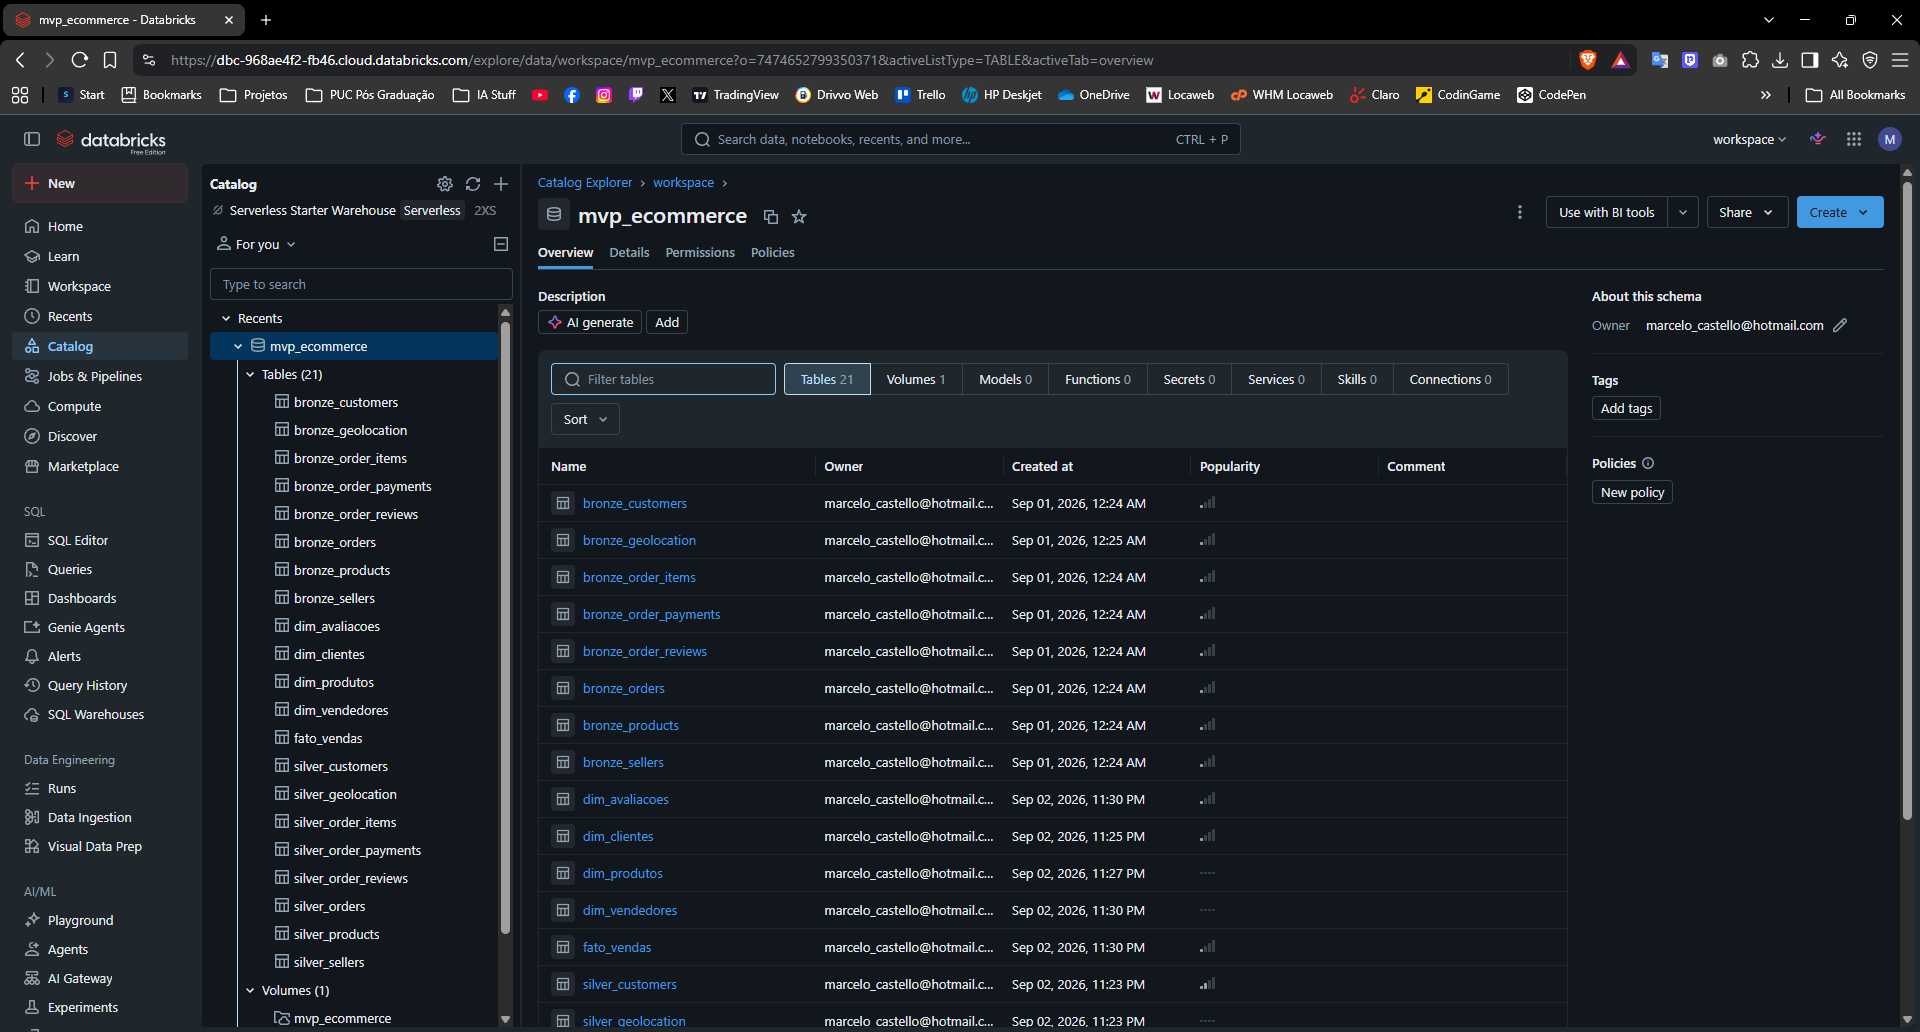
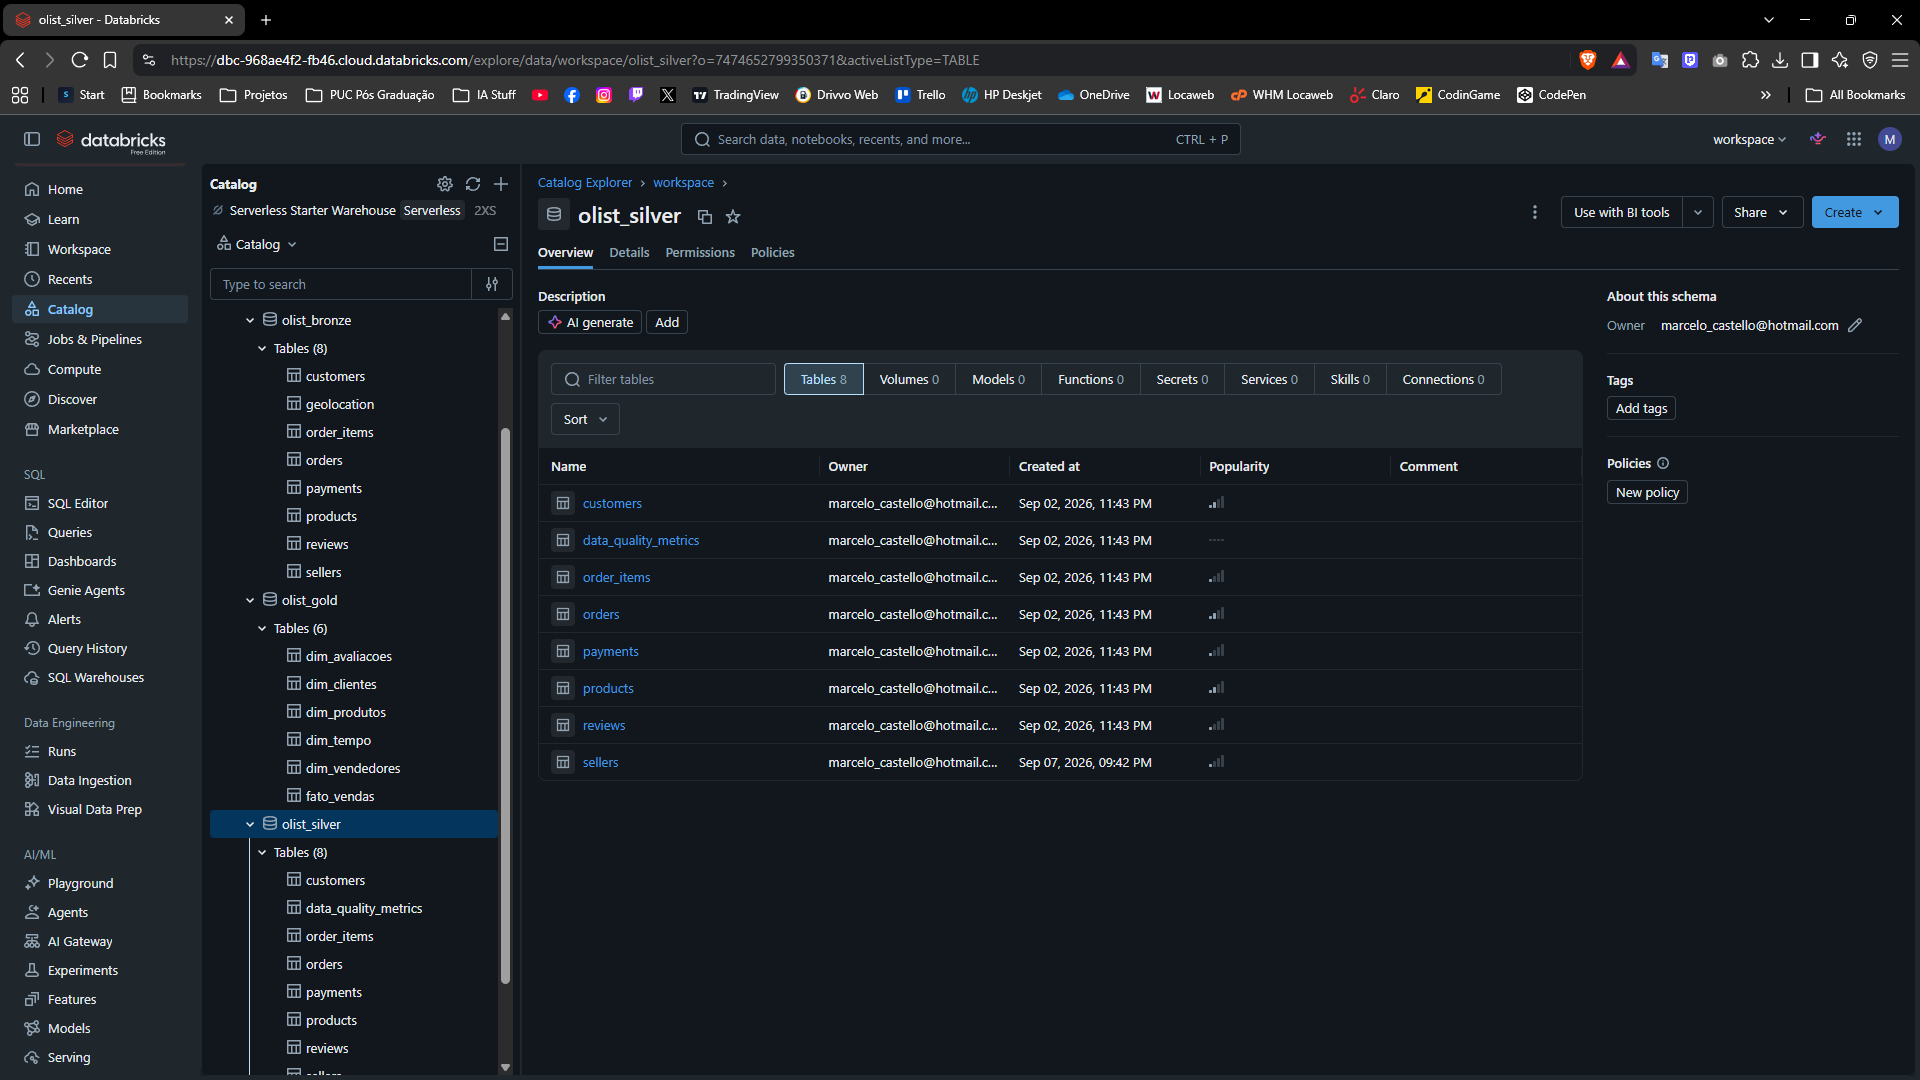
Update README.md with data loading details and add images for Catalog Explorer

diff --git a/README.md b/README.md
@@ -44,13 +44,17 @@ Com o pipeline estruturado, buscaremos responder às seguintes perguntas analít
 
 ## 4. Carga dos Dados (Etapa 4.2)
 
-_[a preencher após execução no Databricks: como os 9 CSVs foram enviados ao Volume `mvp_ecommerce`, screenshot da estrutura do Volume, referência aos notebooks `notebooks/00_bronze_ingestion.ipynb` a `03_business_analysis.ipynb`]_
+Os 8 CSVs (todos exceto `product_category_name_translation.csv`, que não é utilizado pelas 2 perguntas deste MVP) foram enviados manualmente ao Volume `workspace.mvp_ecommerce.mvp_ecommerce` no Databricks Free Edition, via upload direto pela interface de Catalog Explorer. A partir daí, o notebook [`notebooks/00_bronze_ingestion.ipynb`](./notebooks/00_bronze_ingestion.ipynb) lê cada arquivo do Volume e grava como tabela Delta no schema `workspace.olist_bronze`, dando início ao pipeline (`00_bronze_ingestion.ipynb` → `03_business_analysis.ipynb`).
+
+![Estrutura do Volume com os CSVs enviados](docs/images/databricks_volume.png)
 
 ## 5. Modelagem e Catálogo de Dados (Etapa 4.3)
 
 Modelo em Esquema Estrela: 1 tabela fato (`fato_vendas`) cercada de 4 dimensões (`dim_clientes`, `dim_produtos`, `dim_vendedores`, `dim_avaliacoes`). Catálogo de dados completo, com descrição de cada tabela/campo, domínio de valores e linhagem: [docs/catalogo_dados.md](./docs/catalogo_dados.md).
 
-_[a preencher: screenshots do Unity Catalog/Data Explorer mostrando o schema `olist_gold` com as 5 tabelas]_
+![Catalog Explorer com os schemas olist_bronze, olist_gold e olist_silver](docs/images/catalog_explorer.png)
+
+> Nota: o schema `olist_gold` ainda contém a tabela `dim_tempo`, um artefato remanescente de uma iteração anterior do modelo (não utilizada pelas 2 perguntas de negócio nem referenciada no catálogo de dados atual).
 
 ## 6. Pipeline de Dados (Etapa 4.4)
 
@@ -61,7 +65,7 @@ Pipeline organizado em 4 notebooks, um por camada/etapa, seguindo a arquitetura 
 3. [`notebooks/02_gold_star_schema.ipynb`](./notebooks/02_gold_star_schema.ipynb) — modela a fato e as 4 dimensões em `olist_gold`.
 4. [`notebooks/03_business_analysis.ipynb`](./notebooks/03_business_analysis.ipynb) — responde às 2 perguntas de negócio com SQL sobre a camada Gold.
 
-_[a preencher: screenshots confirmando a persistência das tabelas em cada schema no Databricks]_
+A persistência das tabelas em cada schema (`olist_bronze`, `olist_silver`, `olist_gold`) está evidenciada no print do Catalog Explorer na seção 5 acima.
 
 ## 7. Qualidade de Dados (Etapa 4.5)
 
